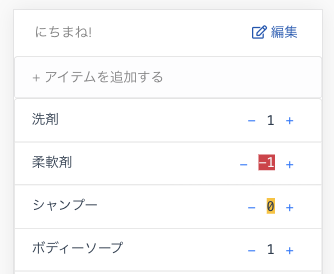
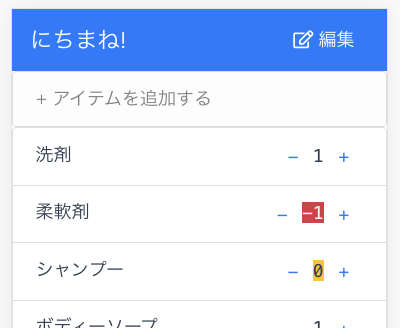
Add micro-interactions (?)

diff --git a/src/views/Login.vue b/src/views/Login.vue
@@ -1,25 +1,40 @@
 <template>
   <div class="login">
     <b-container>
-      <b-navbar>
-        <b-navbar-nav class="text-truncate">
-          <b-nav-brand href="#">にちまね! -シンプルな日用品の在庫マネージャ-</b-nav-brand>
+      <b-navbar class="text-left">
+        <b-navbar-nav>
+          <b-navbar-brand href="#"><span class="small text-secondary">シンプルな日用品在庫管理ツール</span><br>にちまね!</b-navbar-brand>
         </b-navbar-nav>
       </b-navbar>
       <b-row>
-        <b-col class="align-self-center">
-          <div id="firebaseui-container"></div>
-        </b-col>
-        <b-col>
+        <b-col cols="12" lg="6" xl="6">
           <div class="description">
-            <img src="../assets/screenshot.png" fluid />
+            <b-img :src="require('../assets/screenshot.png')" fluid />
           </div>
+        </b-col>
+        <b-col cols="12" lg="6" xl="6" class="align-self-center text-left">
+          <ul class="m-2">
+            <li>シンプルな操作性で使いやすい</li>
+            <li>PC・スマートフォン両対応</li>
+            <li>同じアカウントでログインすればどこでもアクセス可能</li>
+          </ul>
+
+          <b-card class="m-2">
+            <div id="firebaseui-container" v-show="!isLoggedIn || anotherLogin"></div>
+            <div v-if="isLoggedIn && !anotherLogin">
+              既にログイン済みです。
+              <ul class="m-3 mark-none">
+                <li class="m-2"><router-link to="/"><i class="fas fa-arrow-right"></i> サービスを利用する</router-link></li>
+                <li class="m-2"><b-link href="#" v-on:click="wantToAnother"><i class="fas fa-user-cog"></i> 別のユーザでログインする</b-link></li>
+              </ul>
+            </div>
+          </b-card>
         </b-col>
       </b-row>
       <div class="author text-left">
         <small>
           Developed by たいぷらいたー (<a href="https://www.nyamikan.net">にゃみかん</a>)<br>
-          本サービスは無償・無保証です。認証情報はユーザ認証以外の目的では使用いたしません。
+          本サービスは無償・無保証です。データは本サービスの提供以外の目的では使用しません。
         </small>
       </div>
     </b-container>
@@ -34,7 +49,24 @@ import firebaseui from "firebaseui-ja";
 import "firebaseui/dist/firebaseui.css";
 
 @Component({
+  data: function() {
+    return {
+      isLoggedIn: false,
+      anotherLogin: false
+    }
+  },
+  methods: {
+    wantToAnother: function() {
+      this.$data.anotherLogin = true;
+    }
+  },
   mounted: function() {
+    firebase.auth().onAuthStateChanged(user => {
+      if (user) {
+        this.$data.isLoggedIn = true;
+      }
+    });
+
     var uiConfig = {
       signInSuccessUrl: './',
       signInOptions: [
@@ -60,3 +92,13 @@ import "firebaseui/dist/firebaseui.css";
 })
 export default class Login extends Vue {}
 </script>
+
+<style scoped>
+.small {
+  font-size: 70%;
+}
+
+ul.mark-none {
+  list-style: none;
+}
+</style>

diff --git a/src/views/Home.vue b/src/views/Home.vue
@@ -1,27 +1,31 @@
 <template>
   <div class="home text-left">
+    <header class="sticky-top">
+      <b-container>
+        <b-navbar type="dark" variant="primary">
+          <b-navbar-brand href="#" v-if="!isSaving">にちまね!</b-navbar-brand>
+          <b-navbar-brand href="#" v-if="isSaving"><small><b-spinner small /> 保存しています...</small></b-navbar-brand>
+          <b-navbar-nav class="ml-auto">
+            <b-nav-form>
+              <b-button v-on:click="toggle" variant="text-decoration-none" class="text-white">
+                <span v-if="!isEditMode"><i class="far fa-edit"></i> 編集</span>
+                <span v-if="isEditMode"><i class="far fa-check-circle"></i> 完了</span>
+              </b-button>
+            </b-nav-form>
+          </b-navbar-nav>
+        </b-navbar>
+        <ItemAdder
+          v-on:add="itemAdd" v-if="!isLoading && !message" />
+      </b-container>
+    </header>
     <b-container>
-      <b-navbar>
-        <b-navbar-nav class="text-truncate">
-          <b-nav-item href="#" v-if="!isSaving">にちまね!</b-nav-item>
-          <b-nav-item href="#" v-if="isSaving" variant="info"><small><i class="fas fa-spinner"></i> 保存しています...</small></b-nav-item>
-        </b-navbar-nav>
-        <b-navbar-nav class="ml-auto">
-          <b-button v-on:click="toggle" variant="link text-decoration-none">
-            <span v-if="!isEditMode"><i class="far fa-edit"></i> 編集</span>
-            <span v-if="isEditMode"><i class="far fa-check-circle"></i> 完了</span>
-          </b-button>
-        </b-navbar-nav>
-      </b-navbar>
       <div v-if="isLoading">
-        <i class="fas fa-spinner"></i> 読み込んでいます...
+        <b-spinner small /> 読み込んでいます...
       </div>
       <b-alert v-if="message" show variant="danger">
         {{ message }}
       </b-alert>
       <div v-if="!isLoading && !message">
-        <ItemAdder
-          v-on:add="itemAdd" />
         <div v-if="!isEditMode">
           <Items
             :items="items"

diff --git a/src/views/PrivacyPolicy.vue b/src/views/PrivacyPolicy.vue
@@ -14,6 +14,7 @@
       <h5>プライバシーポリシー</h5>
       <ul>
         <li>認証時に用いたアカウント情報は、本サービスのユーザ認証にのみ使用します。</li>
+        <li>サービス上で登録・編集した情報は、本サービスの提供にのみ使用します。</li>
       </ul>
     </b-container>
   </div>
